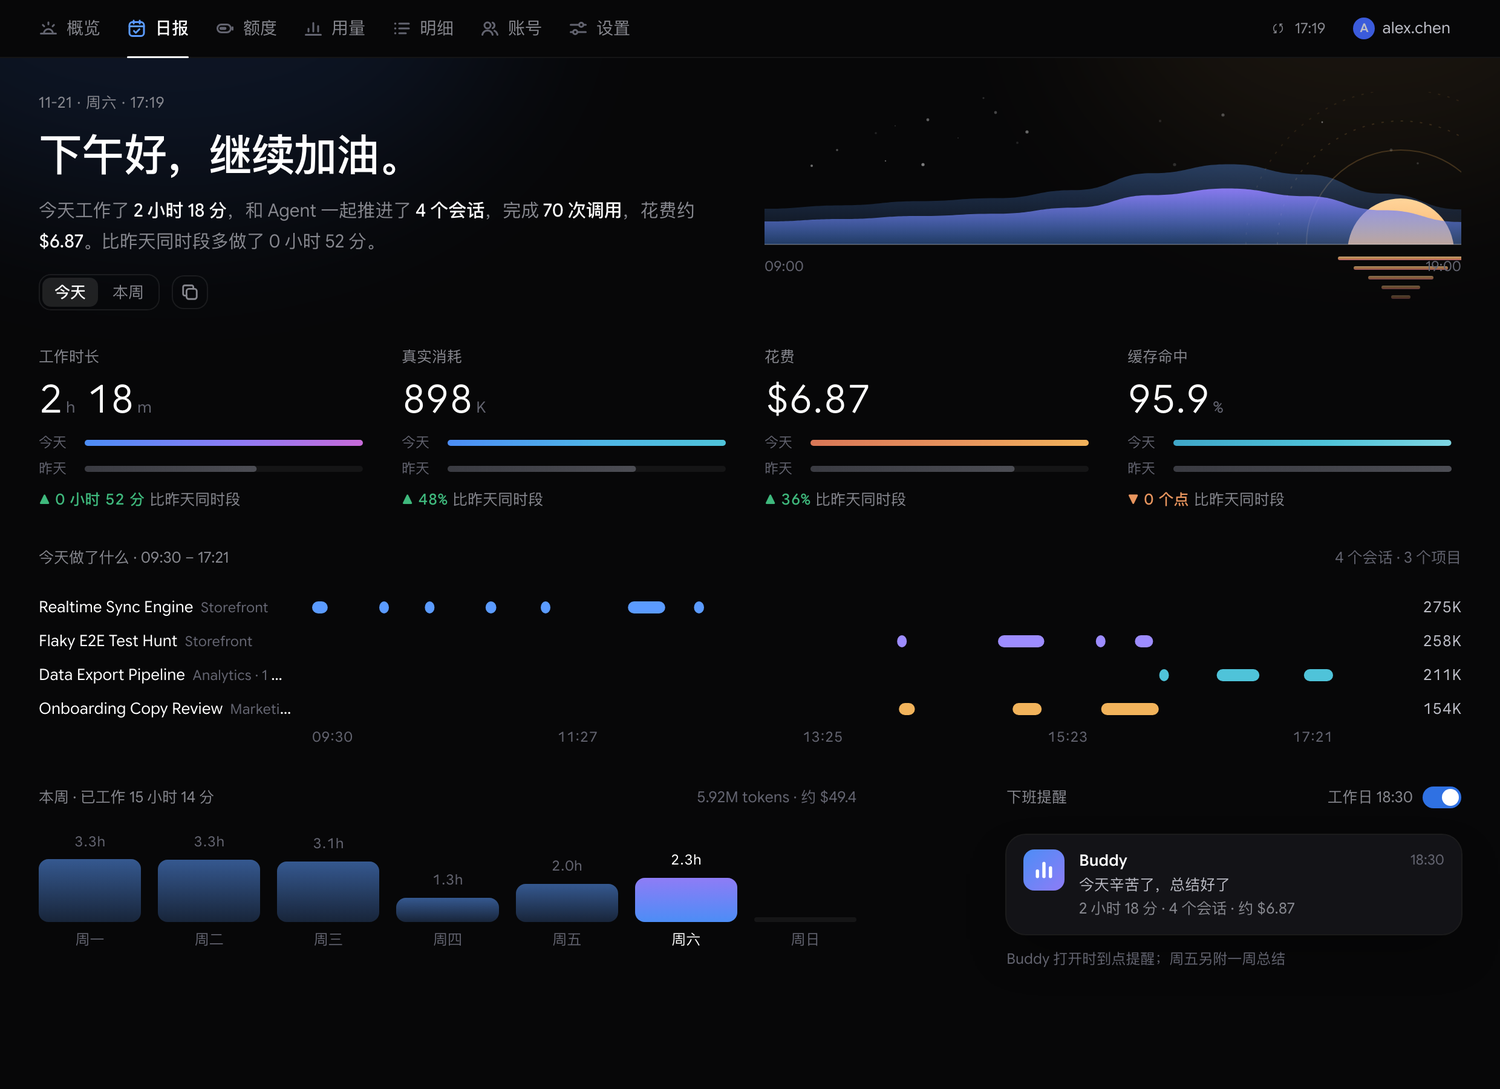
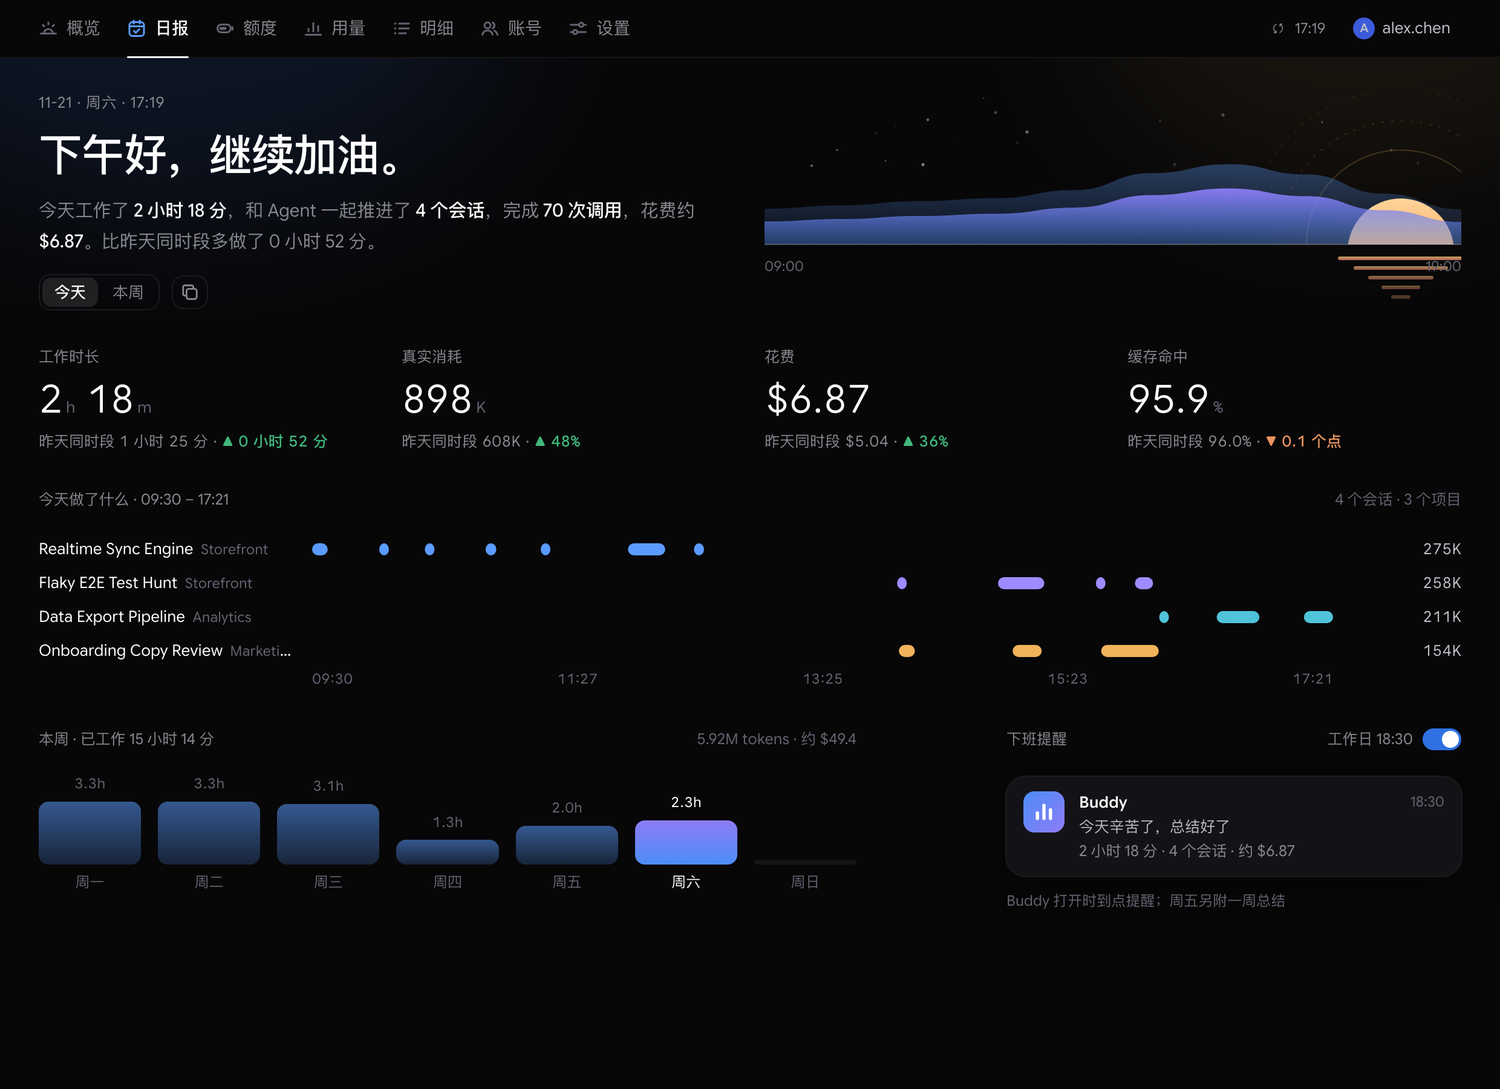
日报：去掉对比进度条、会话最多 4 行、本周改为按天网格、插画按所选时段

diff --git a/plugin/dist/sidecars/buddy_panel/app.js b/plugin/dist/sidecars/buddy_panel/app.js
@@ -387,8 +387,8 @@ function repRange(week) {
 const rowsAB = (a, b) => ROWS.filter(r => r.t >= a && r.t < b);
 // 插画：黄昏。活跃曲线是远山，太阳落在下班时刻，水面倒影
 function dusk(rs, W, H = 176) {
-  const d = day0(), G = 126, act = Array(24).fill(0); rs.forEach(r => { const h = Math.floor((r.t - d) / 3600); if (h >= 0 && h < 24) act[h] += r.in + r.out; });
-  let h0 = act.findIndex(v => v > 0); if (h0 < 0) h0 = 9; h0 = Math.max(0, Math.min(h0, 9)); const h1 = Math.max(19, Math.ceil((NOW - d) / 3600));
+  const d = day0(), G = 126, act = Array(24).fill(0); rs.forEach(r => { act[L(r.t).getUTCHours()] += r.in + r.out; });
+  let h0 = act.findIndex(v => v > 0); if (h0 < 0) h0 = 9; h0 = Math.max(0, Math.min(h0, 9)); const h1 = Math.max(19, (23 - [...act].reverse().findIndex(v => v > 0)) + 1);
   const seg = act.slice(h0, h1), mx = Math.max(...seg, 1), sm = smooth(seg.map(v => v / mx), 1.2), X = i => i / Math.max(1, sm.length - 1) * W;
   const hill = (k, off) => { const pts = sm.map((v, i) => [X(i), G - v * 58 * k - off - 6]); return `M0,${G}L0,${pts[0][1]}${curve(pts).replace(/^M[^C]*/, '')}L${W},${G}Z`; };
   const [rh, rm] = (st.rep.at || '18:30').split(':').map(Number), sx = Math.min(W - 50, Math.max(50, ((rh + rm / 60) - h0) / (h1 - h0) * W)), L2 = isLight();
@@ -413,16 +413,21 @@ function vReport() {
   const hour = L(NOW).getUTCHours(), [rh] = (st.rep.at || '18:30').split(':').map(Number);
   const hi = week ? '这一周辛苦了。' : !rs.length ? '今天还没开始。' : hour >= rh ? '今天辛苦了。' : hour < 12 ? '上午好，进展不错。' : '下午好，继续加油。';
   const more = sec - psec, say = rs.length ? `${R.name}工作了 <b>${hmT(sec)}</b>，和 Agent 一起推进了 <b>${ss.length} 个会话</b>，完成 <b>${comma(t.n)} 次调用</b>，花费约 <b>${fUSD(t.cost)}</b>。${psec ? `比${R.prev}${more >= 0 ? '多' : '少'}做了 ${hmT(Math.abs(more))}。` : ''}` : `${R.name}还没有调用记录，开始工作后这里会自动生成总结。`;
-  const cmp = (a, b, g) => { const m = Math.max(a, b, 1e-9); return `<div class="vs"><div><span>${week ? '本周' : '今天'}</span>${capsule(a / m, g, SPANW(3) - 46, 5)}</div><div><span>${week ? '上周' : '昨天'}</span>${capsule(b / m, grayG(), SPANW(3) - 46, 5)}</div></div>`; };
-  const dl = (a, b, f, unit = '%') => { if (!b) return `<span class="dim">${R.prev}没有数据</span>`; const d = unit === 'pt' ? (a - b) * 100 : (a / b - 1) * 100; const up = d >= 0; return `<b class="${up ? 'up' : 'dn'}">${up ? '▲' : '▼'} ${f ? f(Math.abs(a - b)) : Math.abs(Math.round(d)) + (unit === 'pt' ? ' 个点' : '%')}</b> 比${R.prev}`; };
-  const stat = (l, v, a, b, g, d) => `<div class="md st" style="grid-column:span 3"><div class="lb">${l}</div><div class="kn num">${v}</div>${cmp(a, b, g)}<div class="d num">${d}</div></div>`;
+  const cmp = () => '';
+  const dl = (a, b, f, unit = '%') => { if (!b) return ''; const d = unit === 'pt' ? (a - b) * 100 : (a / b - 1) * 100, up = d >= 0, pv = f === 'h' ? hmT(b) : unit === 'pt' ? (b * 100).toFixed(1) + '%' : f === '$' ? fUSD(b) : fmt(b); return `${R.prev} ${pv} · <b class="${up ? 'up' : 'dn'}">${up ? '▲' : '▼'} ${f === 'h' ? hmT(Math.abs(a - b)) : unit === 'pt' ? Math.abs(d).toFixed(1) + ' 个点' : Math.abs(Math.round(d)) + '%'}</b>`; };
+  const stat = (l, v, a, b, g, d) => `<div class="md st" style="grid-column:span 3"><div class="lb">${l}</div><div class="kn num">${v}</div>${d ? `<div class="d num">${d}</div>` : ''}</div>`;
   // 时间轴：工作时段内每个会话的活跃段
   const tA = ws.length ? ws[0][0] : R.a, tB = Math.max(ws.length ? ws[ws.length - 1][1] : R.b, tA + 3600), TW = SPANW(12) - 210 - 90 - 32, TX = x => (x - tA) / (tB - tA) * TW;
-  const lanes = ss.slice(0, 6).map((g, i) => { const sp = workSpans(rs.filter(r => r.root === g.key)); return `<div class="tlr"><span class="nm el">${SE[g.key].title}<span class="tg">${esc(SE[g.key].ws || '')}${SE[g.key].kids ? ` · ${SE[g.key].kids} 个子代理` : ''}</span></span>
-    <svg width="${TW}" height="14" style="display:block">${sp.map(([a, b]) => `<rect x="${TX(a).toFixed(1)}" y="2" width="${Math.max(8, TX(b) - TX(a)).toFixed(1)}" height="10" rx="5" fill="${PAL[i % PAL.length]}" ${tipA(`${SE[g.key].title}<br>${atLocal(a)} – ${fT(b).slice(0, 5)}`)}/>`).join('')}</svg><span class="v num">${fmt(g.in + g.out)}</span></div>`; }).join('');
-  const nt = Math.min(6, Math.max(2, Math.round((tB - tA) / 7200))), ticks = Array.from({ length: nt + 1 }, (_, i) => `<span>${week ? fD(tA + (tB - tA) * i / nt) : fT(tA + (tB - tA) * i / nt).slice(0, 5)}</span>`).join('');
+  const top = ss.slice(0, 4), restN = ss.length - top.length, restV = ss.slice(4).reduce((a, g) => a + g.in + g.out, 0);
+  // 本周：每个会话一行，七天各一格，颜色深浅 = 当天消耗；今天：工作时段时间轴
+  const w0 = wk0(), dayCell = (g, i) => { const v = Array.from({ length: 7 }, (_, d) => { const x = agg(rs.filter(r => r.root === g.key && r.t >= w0 + d * 86400 && r.t < w0 + (d + 1) * 86400)); return x.in + x.out; }), mx = Math.max(...v, 1);
+    return `<div class="wkg">${v.map((x, d) => `<i style="background:${x ? PAL[i % PAL.length] : ink(.05)};opacity:${x ? (.35 + .65 * x / mx).toFixed(2) : 1}" ${tipA(`${SE[g.key].title}<br>${WD[L(w0 + d * 86400).getUTCDay()]} · ${x ? fmt(x) : '没有调用'}`)}></i>`).join('')}</div>`; };
+  const lanes = top.map((g, i) => { const sp = workSpans(rs.filter(r => r.root === g.key)); return `<div class="tlr"><span class="nm el">${SE[g.key].title}<span class="tg">${esc(SE[g.key].ws || '')}</span></span>
+    ${week ? dayCell(g, i) : `<svg width="${TW}" height="14" style="display:block">${sp.map(([a, b]) => `<rect x="${TX(a).toFixed(1)}" y="2" width="${Math.max(8, TX(b) - TX(a)).toFixed(1)}" height="10" rx="5" fill="${PAL[i % PAL.length]}" ${tipA(`${SE[g.key].title}<br>${atLocal(a)} – ${fT(b).slice(0, 5)}`)}/>`).join('')}</svg>`}<span class="v num">${fmt(g.in + g.out)}</span></div>`; }).join('')
+    + (restN ? `<div class="tlr" style="height:22px"><span class="nm" style="color:var(--fg-4);font-size:12.5px">其余 ${restN} 个会话</span><span></span><span class="v num" style="color:var(--fg-4)">${fmt(restV)}</span></div>` : '');
+  const nt = Math.min(6, Math.max(2, Math.round((tB - tA) / 7200))), ticks = week ? Array.from({ length: 7 }, (_, d) => `<span style="flex:1;text-align:center">${WD[L(w0 + d * 86400).getUTCDay()]}</span>`).join('') : Array.from({ length: nt + 1 }, (_, i) => `<span>${fT(tA + (tB - tA) * i / nt).slice(0, 5)}</span>`).join('');
   // 本周每天
-  const w0 = wk0(), days = Array.from({ length: 7 }, (_, i) => { const a = w0 + i * 86400, r = rowsAB(a, a + 86400); return { i, a, s: spanSec(workSpans(r)), g: agg(r) }; }), dm = Math.max(...days.map(x => x.s), 3600), today = Math.floor((day0() - w0) / 86400);
+  const days = Array.from({ length: 7 }, (_, i) => { const a = w0 + i * 86400, r = rowsAB(a, a + 86400); return { i, a, s: spanSec(workSpans(r)), g: agg(r) }; }), dm = Math.max(...days.map(x => x.s), 3600), today = Math.floor((day0() - w0) / 86400);
   const wsum = days.reduce((a, x) => a + x.s, 0), wg = agg(rowsAB(w0, NOW + 1));
   const md = `## ${R.name}工作总结（${fD(NOW)}）\n\n- 工作时长：${hmT(sec)}\n- 会话：${ss.length} 个\n- 调用：${t.n} 次\n- 真实消耗：${fmt(t.in + t.out)} tokens\n- 花费：约 ${fUSD(t.cost)}\n- 缓存命中：${(hit * 100).toFixed(1)}%\n\n${ss.slice(0, 6).map(g => `- ${SE[g.key].title.replace(/&[^;]+;/g, '')}：${fmt(g.in + g.out)}`).join('\n')}`;
   window._repMd = md;
@@ -433,16 +438,16 @@ function vReport() {
         <div class="hi">${hi}</div><div class="say">${say}</div>
         <div class="row" style="gap:10px;margin-top:14px">${seg([['day', '今天'], ['week', '本周']], week ? 'week' : 'day', 'repw')}<span class="ibg"><span class="ib2" ${A('repcopy')} ${tipA('复制为 Markdown')}>${icon('copy', 15)}</span></span></div>
       </div>
-      <div class="md" style="grid-column:7 / span 6">${dusk(rowsAB(day0(), NOW + 1), SPANW(6))}</div>
+      <div class="md" style="grid-column:7 / span 6">${dusk(week || !rs.length ? rowsAB(wk0(), NOW + 1) : rs, SPANW(6))}</div>
     </section>
     <section class="rw">
-      ${stat('工作时长', hm(sec), sec, psec, G3.gemini, dl(sec, psec, d => hmT(d)))}
+      ${stat('工作时长', hm(sec), sec, psec, G3.gemini, dl(sec, psec, 'h'))}
       ${stat('真实消耗', unit(fmt(t.in + t.out)), t.in + t.out, p.in + p.out, G3.week, dl(t.in + t.out, p.in + p.out))}
-      ${stat('花费', fUSD(t.cost), t.cost, p.cost, G3.claude, dl(t.cost, p.cost))}
+      ${stat('花费', fUSD(t.cost), t.cost, p.cost, G3.claude, dl(t.cost, p.cost, '$'))}
       ${stat('缓存命中', `${(hit * 100).toFixed(1)}<small>%</small>`, hit, phit, G3.cyan, dl(hit, phit, null, 'pt'))}
     </section>
     <section class="rw"><div class="md" style="grid-column:1/-1">
-      <div class="hd" style="margin-bottom:8px"><span class="lb">${R.name}做了什么 · ${week ? fD(tA) + ' – ' + fD(tB) : fT(tA).slice(0, 5) + ' – ' + fT(tB).slice(0, 5)}</span><span class="lb" style="color:var(--fg-4)">${ss.length} 个会话 · ${proj.size} 个项目</span></div>
+      <div class="hd" style="margin-bottom:8px"><span class="lb">${R.name}做了什么${week ? ' · 每格一天，越深用得越多' : ` · ${fT(tA).slice(0, 5)} – ${fT(tB).slice(0, 5)}`}</span><span class="lb" style="color:var(--fg-4)">${ss.length} 个会话 · ${proj.size} 个项目</span></div>
       ${lanes || '<div class="cap">还没有会话</div>'}
       ${lanes ? `<div class="tlr" style="height:20px"><span></span><div class="row num" style="justify-content:space-between;font-size:11.5px;color:var(--fg-4)">${ticks}</div><span></span></div>` : ''}
     </div></section>
@@ -1017,6 +1022,6 @@ loadSt();
       if (lastInd && (lastInd.l !== to.l)) { ind.style.transition = 'none'; ind.style.left = lastInd.l + 'px'; ind.style.width = lastInd.w + 'px'; ind.offsetWidth; ind.style.transition = ''; }
       ind.style.left = to.l + 'px'; ind.style.width = to.w + 'px'; lastInd = to; }
     lastTab = st.tab + st.sp; lastOpen = open; lastMenu = st.menu; }; }
-{ const q = new URLSearchParams(location.search), t = q.get('tab'), m = q.get('menu'); if (t && VIEWS[t]) st.tab = t; if (q.get('range')) st.range = q.get('range'); if (q.get('theme')) st.theme = Number(q.get('theme')); if (q.get('sel')) setTimeout(() => { const r = ledgerRows()[+q.get('sel')]; if (r) { st.lg.sel = r.idx; render(); } }, 1500); if (m) setTimeout(() => { st.menu = m; render(); }, 1200); }
+{ const q = new URLSearchParams(location.search), t = q.get('tab'), m = q.get('menu'); if (t && VIEWS[t]) st.tab = t; if (q.get('range')) st.range = q.get('range'); if (q.get('theme')) st.theme = Number(q.get('theme')); if (q.get('repw')) st.rep.week = q.get('repw') === '1'; if (q.get('sel')) setTimeout(() => { const r = ledgerRows()[+q.get('sel')]; if (r) { st.lg.sel = r.idx; render(); } }, 1500); if (m) setTimeout(() => { st.menu = m; render(); }, 1200); }
 let rz; addEventListener('resize', () => { clearTimeout(rz); rz = setTimeout(() => { if (LIVE.at) render(); }, 120); });
 refresh(); setInterval(refresh, 30000);

diff --git a/plugin/src/report.js b/plugin/src/report.js
@@ -17,8 +17,8 @@ function repRange(week) {
 const rowsAB = (a, b) => ROWS.filter(r => r.t >= a && r.t < b);
 // 插画：黄昏。活跃曲线是远山，太阳落在下班时刻，水面倒影
 function dusk(rs, W, H = 176) {
-  const d = day0(), G = 126, act = Array(24).fill(0); rs.forEach(r => { const h = Math.floor((r.t - d) / 3600); if (h >= 0 && h < 24) act[h] += r.in + r.out; });
-  let h0 = act.findIndex(v => v > 0); if (h0 < 0) h0 = 9; h0 = Math.max(0, Math.min(h0, 9)); const h1 = Math.max(19, Math.ceil((NOW - d) / 3600));
+  const d = day0(), G = 126, act = Array(24).fill(0); rs.forEach(r => { act[L(r.t).getUTCHours()] += r.in + r.out; });
+  let h0 = act.findIndex(v => v > 0); if (h0 < 0) h0 = 9; h0 = Math.max(0, Math.min(h0, 9)); const h1 = Math.max(19, (23 - [...act].reverse().findIndex(v => v > 0)) + 1);
   const seg = act.slice(h0, h1), mx = Math.max(...seg, 1), sm = smooth(seg.map(v => v / mx), 1.2), X = i => i / Math.max(1, sm.length - 1) * W;
   const hill = (k, off) => { const pts = sm.map((v, i) => [X(i), G - v * 58 * k - off - 6]); return `M0,${G}L0,${pts[0][1]}${curve(pts).replace(/^M[^C]*/, '')}L${W},${G}Z`; };
   const [rh, rm] = (st.rep.at || '18:30').split(':').map(Number), sx = Math.min(W - 50, Math.max(50, ((rh + rm / 60) - h0) / (h1 - h0) * W)), L2 = isLight();
@@ -43,16 +43,21 @@ function vReport() {
   const hour = L(NOW).getUTCHours(), [rh] = (st.rep.at || '18:30').split(':').map(Number);
   const hi = week ? '这一周辛苦了。' : !rs.length ? '今天还没开始。' : hour >= rh ? '今天辛苦了。' : hour < 12 ? '上午好，进展不错。' : '下午好，继续加油。';
   const more = sec - psec, say = rs.length ? `${R.name}工作了 <b>${hmT(sec)}</b>，和 Agent 一起推进了 <b>${ss.length} 个会话</b>，完成 <b>${comma(t.n)} 次调用</b>，花费约 <b>${fUSD(t.cost)}</b>。${psec ? `比${R.prev}${more >= 0 ? '多' : '少'}做了 ${hmT(Math.abs(more))}。` : ''}` : `${R.name}还没有调用记录，开始工作后这里会自动生成总结。`;
-  const cmp = (a, b, g) => { const m = Math.max(a, b, 1e-9); return `<div class="vs"><div><span>${week ? '本周' : '今天'}</span>${capsule(a / m, g, SPANW(3) - 46, 5)}</div><div><span>${week ? '上周' : '昨天'}</span>${capsule(b / m, grayG(), SPANW(3) - 46, 5)}</div></div>`; };
-  const dl = (a, b, f, unit = '%') => { if (!b) return `<span class="dim">${R.prev}没有数据</span>`; const d = unit === 'pt' ? (a - b) * 100 : (a / b - 1) * 100; const up = d >= 0; return `<b class="${up ? 'up' : 'dn'}">${up ? '▲' : '▼'} ${f ? f(Math.abs(a - b)) : Math.abs(Math.round(d)) + (unit === 'pt' ? ' 个点' : '%')}</b> 比${R.prev}`; };
-  const stat = (l, v, a, b, g, d) => `<div class="md st" style="grid-column:span 3"><div class="lb">${l}</div><div class="kn num">${v}</div>${cmp(a, b, g)}<div class="d num">${d}</div></div>`;
+  const cmp = () => '';
+  const dl = (a, b, f, unit = '%') => { if (!b) return ''; const d = unit === 'pt' ? (a - b) * 100 : (a / b - 1) * 100, up = d >= 0, pv = f === 'h' ? hmT(b) : unit === 'pt' ? (b * 100).toFixed(1) + '%' : f === '$' ? fUSD(b) : fmt(b); return `${R.prev} ${pv} · <b class="${up ? 'up' : 'dn'}">${up ? '▲' : '▼'} ${f === 'h' ? hmT(Math.abs(a - b)) : unit === 'pt' ? Math.abs(d).toFixed(1) + ' 个点' : Math.abs(Math.round(d)) + '%'}</b>`; };
+  const stat = (l, v, a, b, g, d) => `<div class="md st" style="grid-column:span 3"><div class="lb">${l}</div><div class="kn num">${v}</div>${d ? `<div class="d num">${d}</div>` : ''}</div>`;
   // 时间轴：工作时段内每个会话的活跃段
   const tA = ws.length ? ws[0][0] : R.a, tB = Math.max(ws.length ? ws[ws.length - 1][1] : R.b, tA + 3600), TW = SPANW(12) - 210 - 90 - 32, TX = x => (x - tA) / (tB - tA) * TW;
-  const lanes = ss.slice(0, 6).map((g, i) => { const sp = workSpans(rs.filter(r => r.root === g.key)); return `<div class="tlr"><span class="nm el">${SE[g.key].title}<span class="tg">${esc(SE[g.key].ws || '')}${SE[g.key].kids ? ` · ${SE[g.key].kids} 个子代理` : ''}</span></span>
-    <svg width="${TW}" height="14" style="display:block">${sp.map(([a, b]) => `<rect x="${TX(a).toFixed(1)}" y="2" width="${Math.max(8, TX(b) - TX(a)).toFixed(1)}" height="10" rx="5" fill="${PAL[i % PAL.length]}" ${tipA(`${SE[g.key].title}<br>${atLocal(a)} – ${fT(b).slice(0, 5)}`)}/>`).join('')}</svg><span class="v num">${fmt(g.in + g.out)}</span></div>`; }).join('');
-  const nt = Math.min(6, Math.max(2, Math.round((tB - tA) / 7200))), ticks = Array.from({ length: nt + 1 }, (_, i) => `<span>${week ? fD(tA + (tB - tA) * i / nt) : fT(tA + (tB - tA) * i / nt).slice(0, 5)}</span>`).join('');
+  const top = ss.slice(0, 4), restN = ss.length - top.length, restV = ss.slice(4).reduce((a, g) => a + g.in + g.out, 0);
+  // 本周：每个会话一行，七天各一格，颜色深浅 = 当天消耗；今天：工作时段时间轴
+  const w0 = wk0(), dayCell = (g, i) => { const v = Array.from({ length: 7 }, (_, d) => { const x = agg(rs.filter(r => r.root === g.key && r.t >= w0 + d * 86400 && r.t < w0 + (d + 1) * 86400)); return x.in + x.out; }), mx = Math.max(...v, 1);
+    return `<div class="wkg">${v.map((x, d) => `<i style="background:${x ? PAL[i % PAL.length] : ink(.05)};opacity:${x ? (.35 + .65 * x / mx).toFixed(2) : 1}" ${tipA(`${SE[g.key].title}<br>${WD[L(w0 + d * 86400).getUTCDay()]} · ${x ? fmt(x) : '没有调用'}`)}></i>`).join('')}</div>`; };
+  const lanes = top.map((g, i) => { const sp = workSpans(rs.filter(r => r.root === g.key)); return `<div class="tlr"><span class="nm el">${SE[g.key].title}<span class="tg">${esc(SE[g.key].ws || '')}</span></span>
+    ${week ? dayCell(g, i) : `<svg width="${TW}" height="14" style="display:block">${sp.map(([a, b]) => `<rect x="${TX(a).toFixed(1)}" y="2" width="${Math.max(8, TX(b) - TX(a)).toFixed(1)}" height="10" rx="5" fill="${PAL[i % PAL.length]}" ${tipA(`${SE[g.key].title}<br>${atLocal(a)} – ${fT(b).slice(0, 5)}`)}/>`).join('')}</svg>`}<span class="v num">${fmt(g.in + g.out)}</span></div>`; }).join('')
+    + (restN ? `<div class="tlr" style="height:22px"><span class="nm" style="color:var(--fg-4);font-size:12.5px">其余 ${restN} 个会话</span><span></span><span class="v num" style="color:var(--fg-4)">${fmt(restV)}</span></div>` : '');
+  const nt = Math.min(6, Math.max(2, Math.round((tB - tA) / 7200))), ticks = week ? Array.from({ length: 7 }, (_, d) => `<span style="flex:1;text-align:center">${WD[L(w0 + d * 86400).getUTCDay()]}</span>`).join('') : Array.from({ length: nt + 1 }, (_, i) => `<span>${fT(tA + (tB - tA) * i / nt).slice(0, 5)}</span>`).join('');
   // 本周每天
-  const w0 = wk0(), days = Array.from({ length: 7 }, (_, i) => { const a = w0 + i * 86400, r = rowsAB(a, a + 86400); return { i, a, s: spanSec(workSpans(r)), g: agg(r) }; }), dm = Math.max(...days.map(x => x.s), 3600), today = Math.floor((day0() - w0) / 86400);
+  const days = Array.from({ length: 7 }, (_, i) => { const a = w0 + i * 86400, r = rowsAB(a, a + 86400); return { i, a, s: spanSec(workSpans(r)), g: agg(r) }; }), dm = Math.max(...days.map(x => x.s), 3600), today = Math.floor((day0() - w0) / 86400);
   const wsum = days.reduce((a, x) => a + x.s, 0), wg = agg(rowsAB(w0, NOW + 1));
   const md = `## ${R.name}工作总结（${fD(NOW)}）\n\n- 工作时长：${hmT(sec)}\n- 会话：${ss.length} 个\n- 调用：${t.n} 次\n- 真实消耗：${fmt(t.in + t.out)} tokens\n- 花费：约 ${fUSD(t.cost)}\n- 缓存命中：${(hit * 100).toFixed(1)}%\n\n${ss.slice(0, 6).map(g => `- ${SE[g.key].title.replace(/&[^;]+;/g, '')}：${fmt(g.in + g.out)}`).join('\n')}`;
   window._repMd = md;
@@ -63,16 +68,16 @@ function vReport() {
         <div class="hi">${hi}</div><div class="say">${say}</div>
         <div class="row" style="gap:10px;margin-top:14px">${seg([['day', '今天'], ['week', '本周']], week ? 'week' : 'day', 'repw')}<span class="ibg"><span class="ib2" ${A('repcopy')} ${tipA('复制为 Markdown')}>${icon('copy', 15)}</span></span></div>
       </div>
-      <div class="md" style="grid-column:7 / span 6">${dusk(rowsAB(day0(), NOW + 1), SPANW(6))}</div>
+      <div class="md" style="grid-column:7 / span 6">${dusk(week || !rs.length ? rowsAB(wk0(), NOW + 1) : rs, SPANW(6))}</div>
     </section>
     <section class="rw">
-      ${stat('工作时长', hm(sec), sec, psec, G3.gemini, dl(sec, psec, d => hmT(d)))}
+      ${stat('工作时长', hm(sec), sec, psec, G3.gemini, dl(sec, psec, 'h'))}
       ${stat('真实消耗', unit(fmt(t.in + t.out)), t.in + t.out, p.in + p.out, G3.week, dl(t.in + t.out, p.in + p.out))}
-      ${stat('花费', fUSD(t.cost), t.cost, p.cost, G3.claude, dl(t.cost, p.cost))}
+      ${stat('花费', fUSD(t.cost), t.cost, p.cost, G3.claude, dl(t.cost, p.cost, '$'))}
       ${stat('缓存命中', `${(hit * 100).toFixed(1)}<small>%</small>`, hit, phit, G3.cyan, dl(hit, phit, null, 'pt'))}
     </section>
     <section class="rw"><div class="md" style="grid-column:1/-1">
-      <div class="hd" style="margin-bottom:8px"><span class="lb">${R.name}做了什么 · ${week ? fD(tA) + ' – ' + fD(tB) : fT(tA).slice(0, 5) + ' – ' + fT(tB).slice(0, 5)}</span><span class="lb" style="color:var(--fg-4)">${ss.length} 个会话 · ${proj.size} 个项目</span></div>
+      <div class="hd" style="margin-bottom:8px"><span class="lb">${R.name}做了什么${week ? ' · 每格一天，越深用得越多' : ` · ${fT(tA).slice(0, 5)} – ${fT(tB).slice(0, 5)}`}</span><span class="lb" style="color:var(--fg-4)">${ss.length} 个会话 · ${proj.size} 个项目</span></div>
       ${lanes || '<div class="cap">还没有会话</div>'}
       ${lanes ? `<div class="tlr" style="height:20px"><span></span><div class="row num" style="justify-content:space-between;font-size:11.5px;color:var(--fg-4)">${ticks}</div><span></span></div>` : ''}
     </div></section>

diff --git a/plugin/src/boot.js b/plugin/src/boot.js
@@ -35,6 +35,6 @@ loadSt();
       if (lastInd && (lastInd.l !== to.l)) { ind.style.transition = 'none'; ind.style.left = lastInd.l + 'px'; ind.style.width = lastInd.w + 'px'; ind.offsetWidth; ind.style.transition = ''; }
       ind.style.left = to.l + 'px'; ind.style.width = to.w + 'px'; lastInd = to; }
     lastTab = st.tab + st.sp; lastOpen = open; lastMenu = st.menu; }; }
-{ const q = new URLSearchParams(location.search), t = q.get('tab'), m = q.get('menu'); if (t && VIEWS[t]) st.tab = t; if (q.get('range')) st.range = q.get('range'); if (q.get('theme')) st.theme = Number(q.get('theme')); if (q.get('sel')) setTimeout(() => { const r = ledgerRows()[+q.get('sel')]; if (r) { st.lg.sel = r.idx; render(); } }, 1500); if (m) setTimeout(() => { st.menu = m; render(); }, 1200); }
+{ const q = new URLSearchParams(location.search), t = q.get('tab'), m = q.get('menu'); if (t && VIEWS[t]) st.tab = t; if (q.get('range')) st.range = q.get('range'); if (q.get('theme')) st.theme = Number(q.get('theme')); if (q.get('repw')) st.rep.week = q.get('repw') === '1'; if (q.get('sel')) setTimeout(() => { const r = ledgerRows()[+q.get('sel')]; if (r) { st.lg.sel = r.idx; render(); } }, 1500); if (m) setTimeout(() => { st.menu = m; render(); }, 1200); }
 let rz; addEventListener('resize', () => { clearTimeout(rz); rz = setTimeout(() => { if (LIVE.at) render(); }, 120); });
 refresh(); setInterval(refresh, 30000);

diff --git a/plugin/dist/sidecars/buddy_panel/styles.css b/plugin/dist/sidecars/buddy_panel/styles.css
@@ -344,3 +344,5 @@ tr.xd td{height:auto;padding:0;border-bottom:1px solid var(--border)}
 .kv2{display:flex;justify-content:space-between;align-items:center;gap:12px;height:28px;font-size:13px;color:var(--fg-3)}
 .kv2 b{font-weight:400;color:var(--fg-2);min-width:0}.kv2 em{font-style:normal;color:var(--fg-4);font-size:12px;display:inline-block;width:56px;text-align:right}
 .kv2 .dot{display:inline-block;width:8px;height:8px;border-radius:50%;margin-right:8px}
+.wkg{display:grid;grid-template-columns:repeat(7,1fr);gap:6px}.wkg i{height:14px;border-radius:5px}
+.rep .st .d{margin-top:10px}

diff --git a/plugin/src/styles.css b/plugin/src/styles.css
@@ -344,3 +344,5 @@ tr.xd td{height:auto;padding:0;border-bottom:1px solid var(--border)}
 .kv2{display:flex;justify-content:space-between;align-items:center;gap:12px;height:28px;font-size:13px;color:var(--fg-3)}
 .kv2 b{font-weight:400;color:var(--fg-2);min-width:0}.kv2 em{font-style:normal;color:var(--fg-4);font-size:12px;display:inline-block;width:56px;text-align:right}
 .kv2 .dot{display:inline-block;width:8px;height:8px;border-radius:50%;margin-right:8px}
+.wkg{display:grid;grid-template-columns:repeat(7,1fr);gap:6px}.wkg i{height:14px;border-radius:5px}
+.rep .st .d{margin-top:10px}
